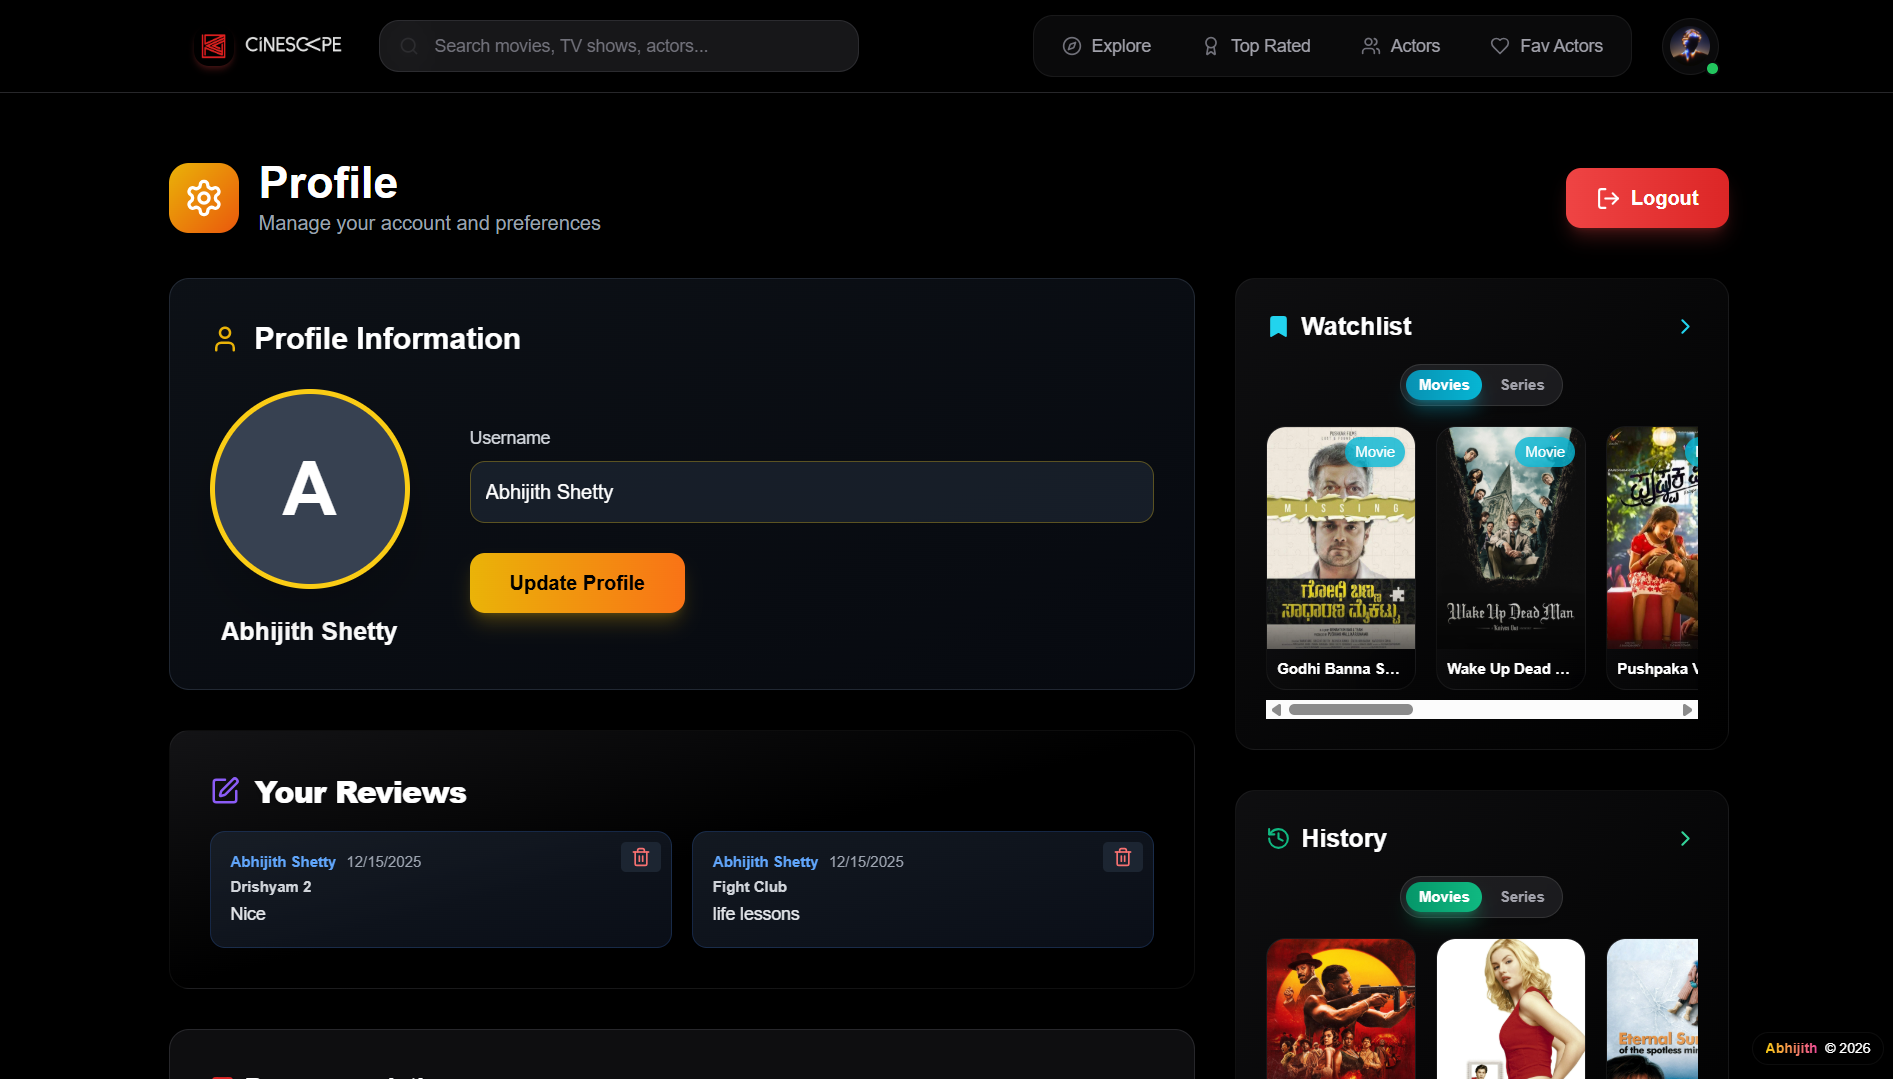
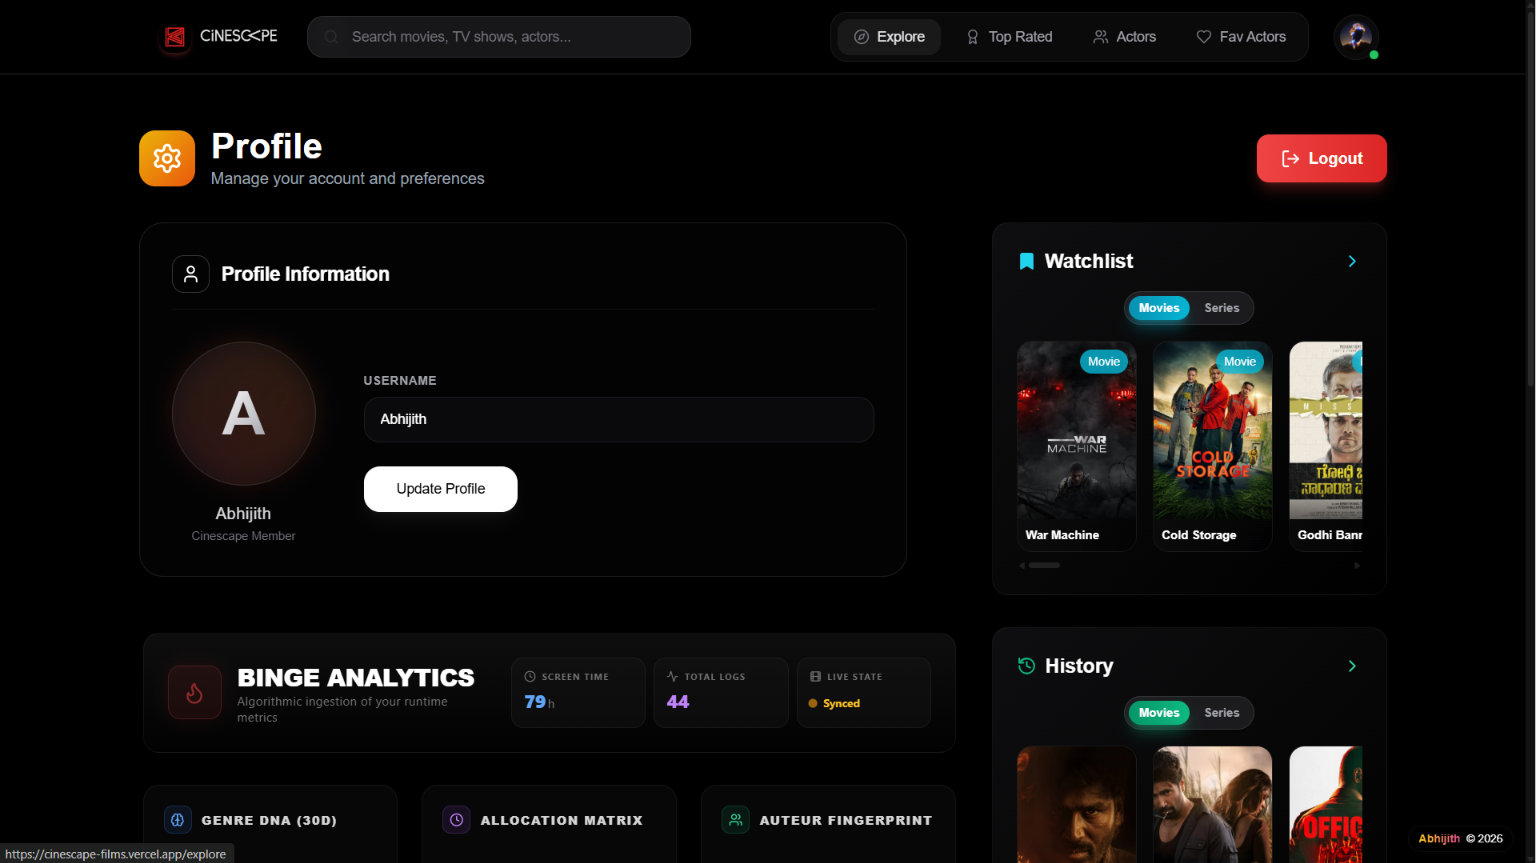
README updated with new features

diff --git a/README.md b/README.md
@@ -19,7 +19,11 @@
 * **🎭 Talent Profiles**: Detailed insights into actors, including full filmographies.
 * **❤ Favorites Management**: Save and organize your preferred actors and movies.
 * **🕒 History Tracking**: Keep a log of your recently viewed titles.
+* **📊 Binge Watch Stats (Binge Analytics)**: Visualize your viewing habits—30-day genre trends, screen time, runtime split, and favorite directors.
+* **🎲 Watchlist Roulette**: Spin through your watchlist to pick your next “winner pick” with an animated roulette + confetti moment.
+* **🎬 Director’s Cut (Lineage Graph)**: Explore cinematic connections using an interactive director/actor network graph powered by TMDB relationships.
 * **📱 Responsive UI**: Fully optimized for desktop, tablet, and mobile devices.
+
 
 ---
 
